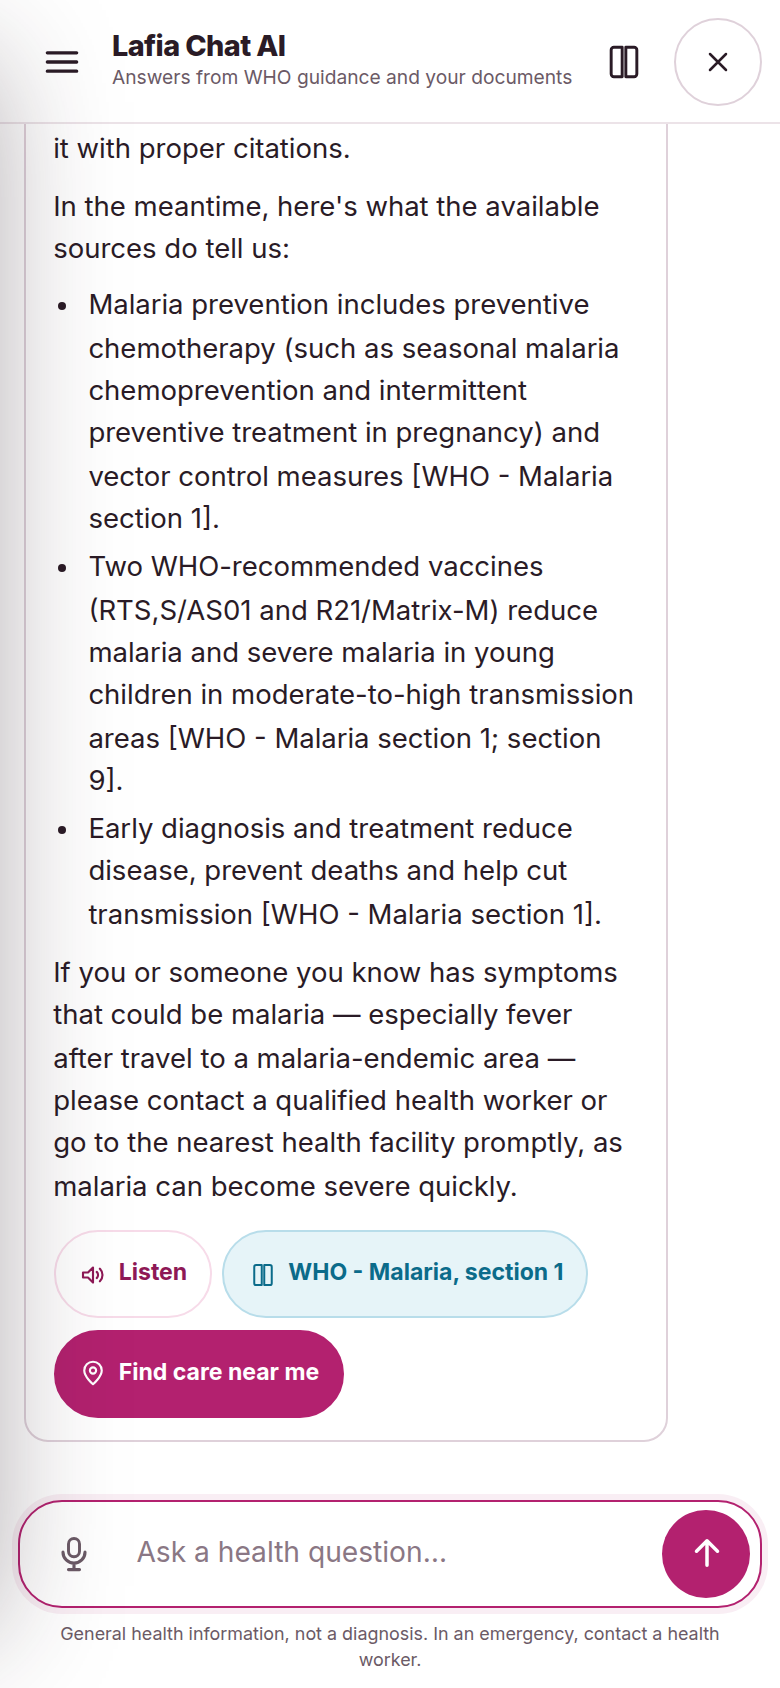
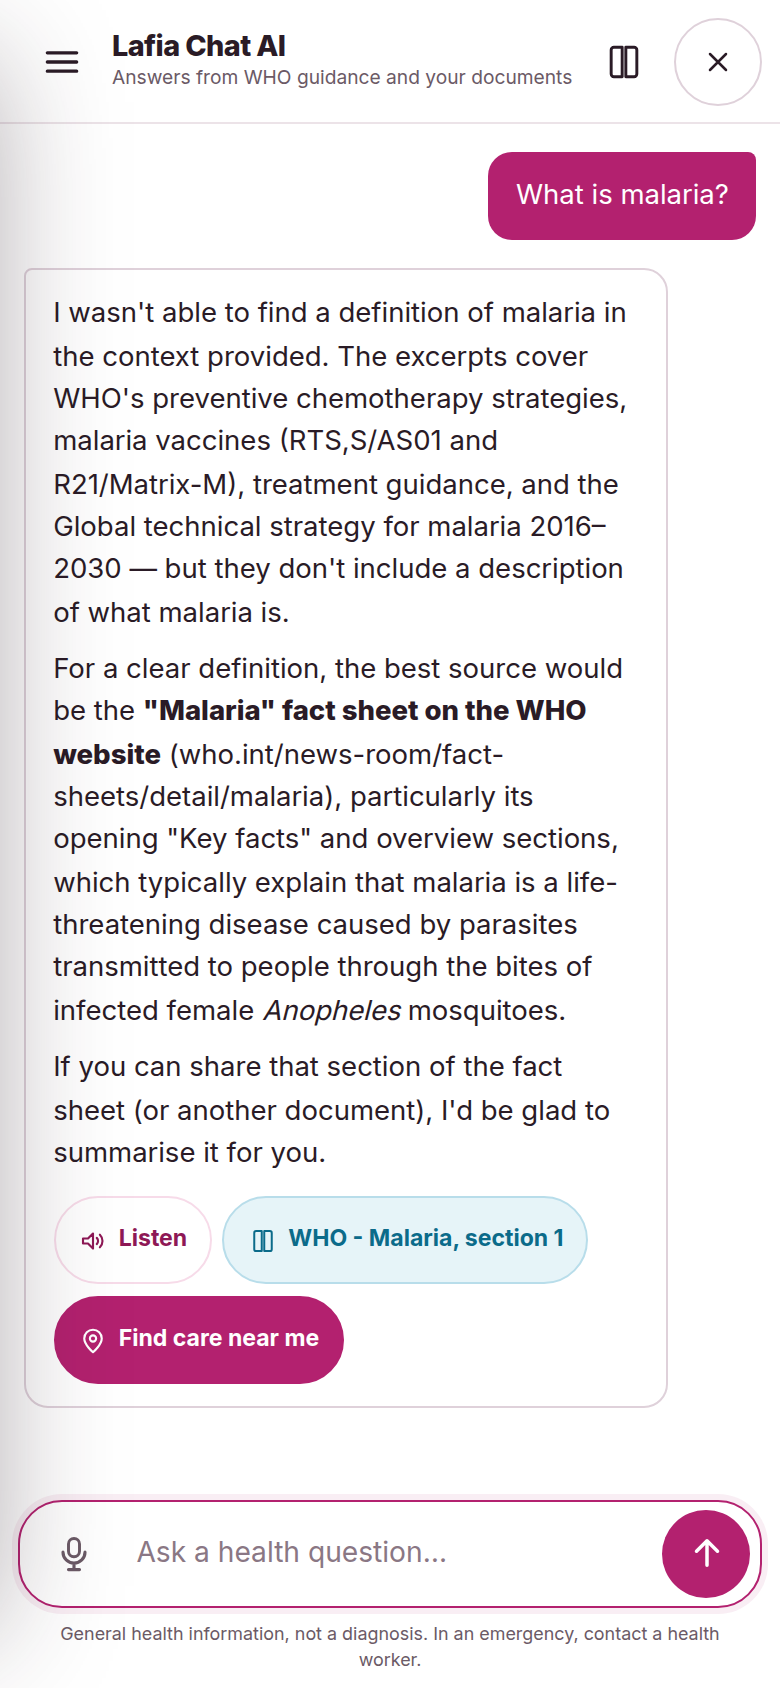
style: make the workspace fill the viewport

Changed region(s): [[0.0615, 0.0616, 0.9846, 0.8626], [0.3077, 0.0616, 0.4308, 0.1232]]

diff --git a/static/css/chat.css b/static/css/chat.css
@@ -39,7 +39,7 @@ body {
 
 body {
   margin: 0;
-  background: var(--shell);
+  background: var(--white);
   color: var(--ink);
   font-family: var(--font);
   font-size: 16px;
@@ -140,13 +140,13 @@ h3 {
 
 /* ───────────────── app shell ───────────────── */
 .app {
-  width: min(1180px, calc(100vw - 40px));
-  height: calc(100dvh - 40px);
-  margin: 20px auto;
+  width: 100%;
+  height: 100dvh;
+  margin: 0;
   overflow: hidden;
-  border-radius: 14px;
+  border-radius: 0;
   background: var(--white);
-  box-shadow: var(--shadow);
+  box-shadow: none;
 }
 
 .screen {

diff --git a/templates/chat.html b/templates/chat.html
@@ -15,7 +15,7 @@
       href="https://fonts.googleapis.com/css2?family=Inter:wght@400;500;600;700;800&display=swap"
       rel="stylesheet"
     />
-    <link rel="stylesheet" href="/static/css/chat.css?v=20261109d" />
+    <link rel="stylesheet" href="/static/css/chat.css?v=20261109e" />
     <title>Lafia Chat AI</title>
   </head>
   <body>
